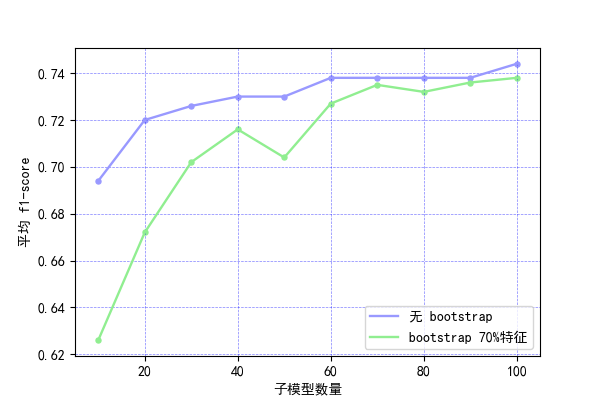
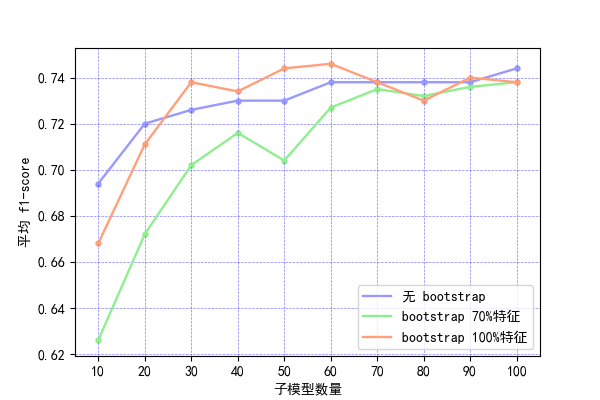
finish code for hw4

diff --git a/Model-Selection-hw4/main.py b/Model-Selection-hw4/main.py
@@ -1,4 +1,3 @@
-from sklearn.cross_validation import KFold
 from sklearn.cross_validation import StratifiedKFold
 from sklearn.datasets import make_classification
 from sklearn.cross_validation import train_test_split
@@ -14,7 +13,6 @@ import numpy as np
 import matplotlib.pyplot as plt
 plt.rcParams['font.sans-serif']=['SimHei']
 plt.rcParams['axes.unicode_minus']=False
-from pydotplus import graph_from_dot_data
 
 ##################### making dataset ######################
 
@@ -71,111 +69,6 @@ def exp_cv(folds=10):
 
     return mean_test, mean_train
 
-# grid search
-def exp_grid_search(folds=10):
-    model = DecisionTreeClassifier(random_state=random_seed)
-    param_grid = {'criterion': ['gini', 'entropy'],
-                  'max_features': ['sqrt', 'log2', None],
-                  'max_depth': list(range(3, 15)),
-                  'presort': [True, False],
-                  'splitter': ['best', 'random']}
-    grid = GridSearchCV(model, param_grid, cv=folds, scoring='f1_weighted')
-    grid.fit(X, Y)
-
-    print(grid.best_params_)
-    print(grid.best_score_)
-
-    export_graphviz(grid.best_estimator_, filled=True, out_file='report/img/gs.dot')
-
-def bagging(cv=True):
-    bagging = BaggingClassifier(
-        DecisionTreeClassifier(random_state=random_seed),
-        n_estimators=90,            # number of models
-        random_state=random_seed,
-        bootstrap=True,
-        max_samples=1.0,            # Bootstrap sample size radio
-        bootstrap_features=True,
-        max_features=0.7,           # Bootstrap feature usage radio
-    )
-    if cv:
-        scores_train = []
-        scores_test = []
-        kfolds = StratifiedKFold(Y, n_folds=10, random_state=random_seed)
-        for train, test in kfolds:
-            bagging.fit(X[train], Y[train])
-
-            score = bagging.score(X[test], Y[test])
-            scores_test.append(score)
-            score = bagging.score(X[train], Y[train])
-            scores_train.append(score)
-
-        mean_test = np.array(scores_test).mean()
-        mean_train = np.array(scores_train).mean()
-        print('avg score with cv folds 10 in testing set: ', mean_test)
-        print('avg score with cv folds 10 in training set: ', mean_train)
-    else:
-        bagging.fit(X_train, Y_train)
-        pred = bagging.predict(X_test)
-        print(classification_report(Y_test, pred))
-
-def plot_bagging():
-    x = list(range(10, 101, 10))
-    y = [0.694, 0.720, 0.726, 0.730, 0.730, 0.738, 0.738, 0.738, 0.738, 0.744]
-    y_b = [0.626, 0.672, 0.702, 0.716, 0.704, 0.727, 0.735, 0.732, 0.736, 0.738]
-
-    plt.figure(figsize=(6, 4))
-    ax = plt.gca()
-    ax.plot(x, y, color='#9999ff', linewidth=1.7, label=u'无 bootstrap')
-    ax.plot(x, y_b, color='#90EE90', linewidth=1.7, label='bootstrap 70%特征')
-    ax.scatter(x, y, s=13, c='#9999ff')
-    ax.scatter(x, y_b, s=13, c='#90EE90')
-    ax.grid(color='b', alpha=0.5, linestyle='dashed', linewidth=0.5)
-    plt.xlim((5, 105))
-    plt.xlabel(u'子模型数量')
-    plt.ylabel(u'平均 f1-score')
-    plt.legend()
-    plt.savefig('report/img/bagging_kline')
-    plt.show()
-
-def boosting(cv=True):
-    boosting = AdaBoostClassifier(
-        DecisionTreeClassifier(max_depth=3, min_samples_leaf=2, random_state=random_seed),
-        n_estimators=10,        # number of models
-        algorithm='SAMME.R',    # Advanced-Boosting
-        random_state=random_seed
-    )
-    if cv:
-        scores_train = []
-        scores_test = []
-        kfolds = StratifiedKFold(Y, n_folds=10, random_state=random_seed)
-        for train, test in kfolds:
-            boosting.fit(X[train], Y[train])
-
-            score = boosting.score(X[test], Y[test])
-            scores_test.append(score)
-            score = boosting.score(X[train], Y[train])
-            scores_train.append(score)
-
-        mean_test = np.array(scores_test).mean()
-        mean_train = np.array(scores_train).mean()
-        print('avg score with cv folds 10 in testing set: ', mean_test)
-        print('avg score with cv folds 10 in training set: ', mean_train)
-    else:
-        boosting.fit(X_train, Y_train)
-
-        pred = boosting.predict(X_train)
-        print(classification_report(Y_train, pred))
-
-        pred = boosting.predict(X_test)
-        print(classification_report(Y_test, pred))
-
-def plot_boosting():
-    x = list(range(10, 101, 10))
-    y = []
-    y_r = [0.608, 0.668]
-    y_tr = []
-    y_tr_r = [0.904, 0.998]
-
 def plot_cv():
     mean_tests = []
     mean_trains = []
@@ -206,12 +99,159 @@ def plot_cv():
     plt.savefig('report/img/cv_bar')
     plt.show()
 
+# grid search
+def exp_grid_search(folds=10):
+    model = DecisionTreeClassifier(random_state=random_seed)
+    param_grid = {'criterion': ['gini', 'entropy'],
+                  'max_features': ['sqrt', 'log2', None],
+                  'max_depth': list(range(3, 15)),
+                  'presort': [True, False],
+                  'splitter': ['best', 'random']
+                  }
+    grid = GridSearchCV(model, param_grid, cv=folds, scoring='f1_weighted')
+    grid.fit(X, Y)
+
+    print(grid.best_params_)
+    print(grid.best_score_)
+
+    export_graphviz(grid.best_estimator_, filled=True, out_file='report/img/gs.dot')
+
+# bagging alg
+def bagging(cv=True):
+    bagging = BaggingClassifier(
+        DecisionTreeClassifier(random_state=random_seed),
+        n_estimators=10,            # number of models
+        random_state=random_seed,
+        bootstrap=True,
+        max_samples=1.0,            # Bootstrap sample size radio
+        bootstrap_features=True,
+        max_features=1.0,           # Bootstrap feature usage radio
+    )
+    if cv:          # using cross-validation
+        scores_train = []
+        scores_test = []
+        kfolds = StratifiedKFold(Y, n_folds=10, random_state=random_seed)
+        for train, test in kfolds:
+            bagging.fit(X[train], Y[train])
+
+            score = bagging.score(X[test], Y[test])
+            scores_test.append(score)
+            score = bagging.score(X[train], Y[train])
+            scores_train.append(score)
+
+        mean_test = np.array(scores_test).mean()
+        mean_train = np.array(scores_train).mean()
+        print('avg score with cv folds 10 in testing set: ', mean_test)
+        print('avg score with cv folds 10 in training set: ', mean_train)
+    else:           # without cross-validation
+        bagging.fit(X_train, Y_train)
+        pred = bagging.predict(X_test)
+        print(classification_report(Y_test, pred))
+
+def plot_bagging():
+    # results
+    x = list(range(10, 101, 10))
+    y = [0.694, 0.720, 0.726, 0.730, 0.730, 0.738, 0.738, 0.738, 0.738, 0.744]
+    y_b = [0.626, 0.672, 0.702, 0.716, 0.704, 0.727, 0.735, 0.732, 0.736, 0.738]
+    y_b_full = [0.668, 0.711, 0.738, 0.734, 0.744, 0.746, 0.738, 0.730, 0.740, 0.738]
+
+    # ploting code
+    plt.figure(figsize=(6, 4))
+    ax = plt.gca()
+    ax.plot(x, y, color='#9999ff', linewidth=1.7, label=u'无 bootstrap')
+    ax.plot(x, y_b, color='#90EE90', linewidth=1.7, label='bootstrap 70%特征')
+    ax.plot(x, y_b_full, color='#ffa07a', linewidth=1.7, label='bootstrap 100%特征')
+    ax.scatter(x, y, s=13, c='#9999ff')
+    ax.scatter(x, y_b, s=13, c='#90EE90')
+    ax.scatter(x, y_b_full, s=13, c='#ffa07a')
+    ax.grid(color='b', alpha=0.5, linestyle='dashed', linewidth=0.5)
+    plt.xlim((5, 105))
+    plt.xticks(x)
+    plt.xlabel(u'子模型数量')
+    plt.ylabel(u'平均 f1-score')
+    plt.legend()
+    plt.savefig('report/img/bagging_kline')
+    plt.show()
+
+# boosting alg
+def boosting(cv=True):
+    boosting = AdaBoostClassifier(
+        DecisionTreeClassifier(max_depth=3, min_samples_leaf=2, random_state=random_seed),
+        n_estimators=100,   # number of models
+        algorithm='SAMME',  # Advanced-Boosting
+        random_state=random_seed
+    )
+    if cv:      # using cross-validation
+        scores_train = []
+        scores_test = []
+        kfolds = StratifiedKFold(Y, n_folds=10, random_state=random_seed)
+        for train, test in kfolds:
+            boosting.fit(X[train], Y[train])
+
+            score = boosting.score(X[test], Y[test])
+            scores_test.append(score)
+            score = boosting.score(X[train], Y[train])
+            scores_train.append(score)
+
+        mean_test = np.array(scores_test).mean()
+        mean_train = np.array(scores_train).mean()
+        print('avg score with cv folds 10 in testing set: ', mean_test)
+        print('avg score with cv folds 10 in training set: ', mean_train)
+    else:       # without cross-validation
+        boosting.fit(X_train, Y_train)
+
+        pred = boosting.predict(X_train)
+        print(classification_report(Y_train, pred))
+
+        pred = boosting.predict(X_test)
+        print(classification_report(Y_test, pred))
+
+def plot_boosting():
+    # results
+    x = list(range(10, 101, 10))
+    y1 = [0.621, 0.649, 0.649, 0.666, 0.666, 0.672, 0.672, 0.688, 0.688, 0.710]
+    y2 = [0.608, 0.570, 0.596, 0.616, 0.635, 0.633, 0.629, 0.650, 0.664, 0.668]
+    y1_tr = [0.860, 0.958, 0.984, 0.995, 0.996, 0.999, 1.000, 1.000, 1.000, 1.000]
+    y2_tr = [0.904, 0.936, 0.960, 0.975, 0.988, 0.993, 0.993, 0.995, 0.997, 0.998]
+
+    # plot testing results
+    plt.figure(figsize=(6, 4))
+    ax = plt.gca()
+    ax.plot(x, y1, color='#9999ff', linewidth=1.7, label='SAMME.R')
+    ax.plot(x, y2, color='#90EE90', linewidth=1.7, label='SAMME')
+    ax.scatter(x, y1, s=13, c='#9999ff')
+    ax.scatter(x, y2, s=13, c='#90EE90')
+    ax.grid(color='b', alpha=0.5, linestyle='dashed', linewidth=0.5)
+    plt.xlim((5, 105))
+    plt.xticks(x)
+    plt.xlabel(u'子模型数量')
+    plt.ylabel(u'平均 f1-score')
+    plt.legend()
+    plt.savefig('report/img/boosting_kline_test')
+    plt.show()
+
+    # plot training results
+    plt.figure(figsize=(6, 4))
+    ax = plt.gca()
+    ax.plot(x, y1_tr, color='#9999ff', linewidth=1.7, label='SAMME.R')
+    ax.plot(x, y2_tr, color='#90EE90', linewidth=1.7, label='SAMME')
+    ax.scatter(x, y1_tr, s=13, c='#9999ff')
+    ax.scatter(x, y2_tr, s=13, c='#90EE90')
+    ax.grid(color='b', alpha=0.5, linestyle='dashed', linewidth=0.5)
+    plt.xlim((5, 105))
+    plt.xticks(x)
+    plt.xlabel(u'子模型数量')
+    plt.ylabel(u'平均 f1-score')
+    plt.legend()
+    plt.savefig('report/img/boosting_kline_train')
+    plt.show()
+
 if __name__ == '__main__':
     # exp_plain_train()
     # exp_cv()
     # plot_cv()
     # exp_grid_search()
-    boosting()
+    # boosting()
     # plot_boosting()
     # bagging()
-    # plot_bagging()
+    plot_bagging()

diff --git a/README.md b/README.md
@@ -30,7 +30,7 @@ Boston数据集主成分分析
 
 ### [Model Selection](https://github.com/shinshiner/CS245-Data-Science/tree/master/Model-Selection-hw4)
 
-模型选择
+模型评价与模型改善
 
 ## Reference
 
